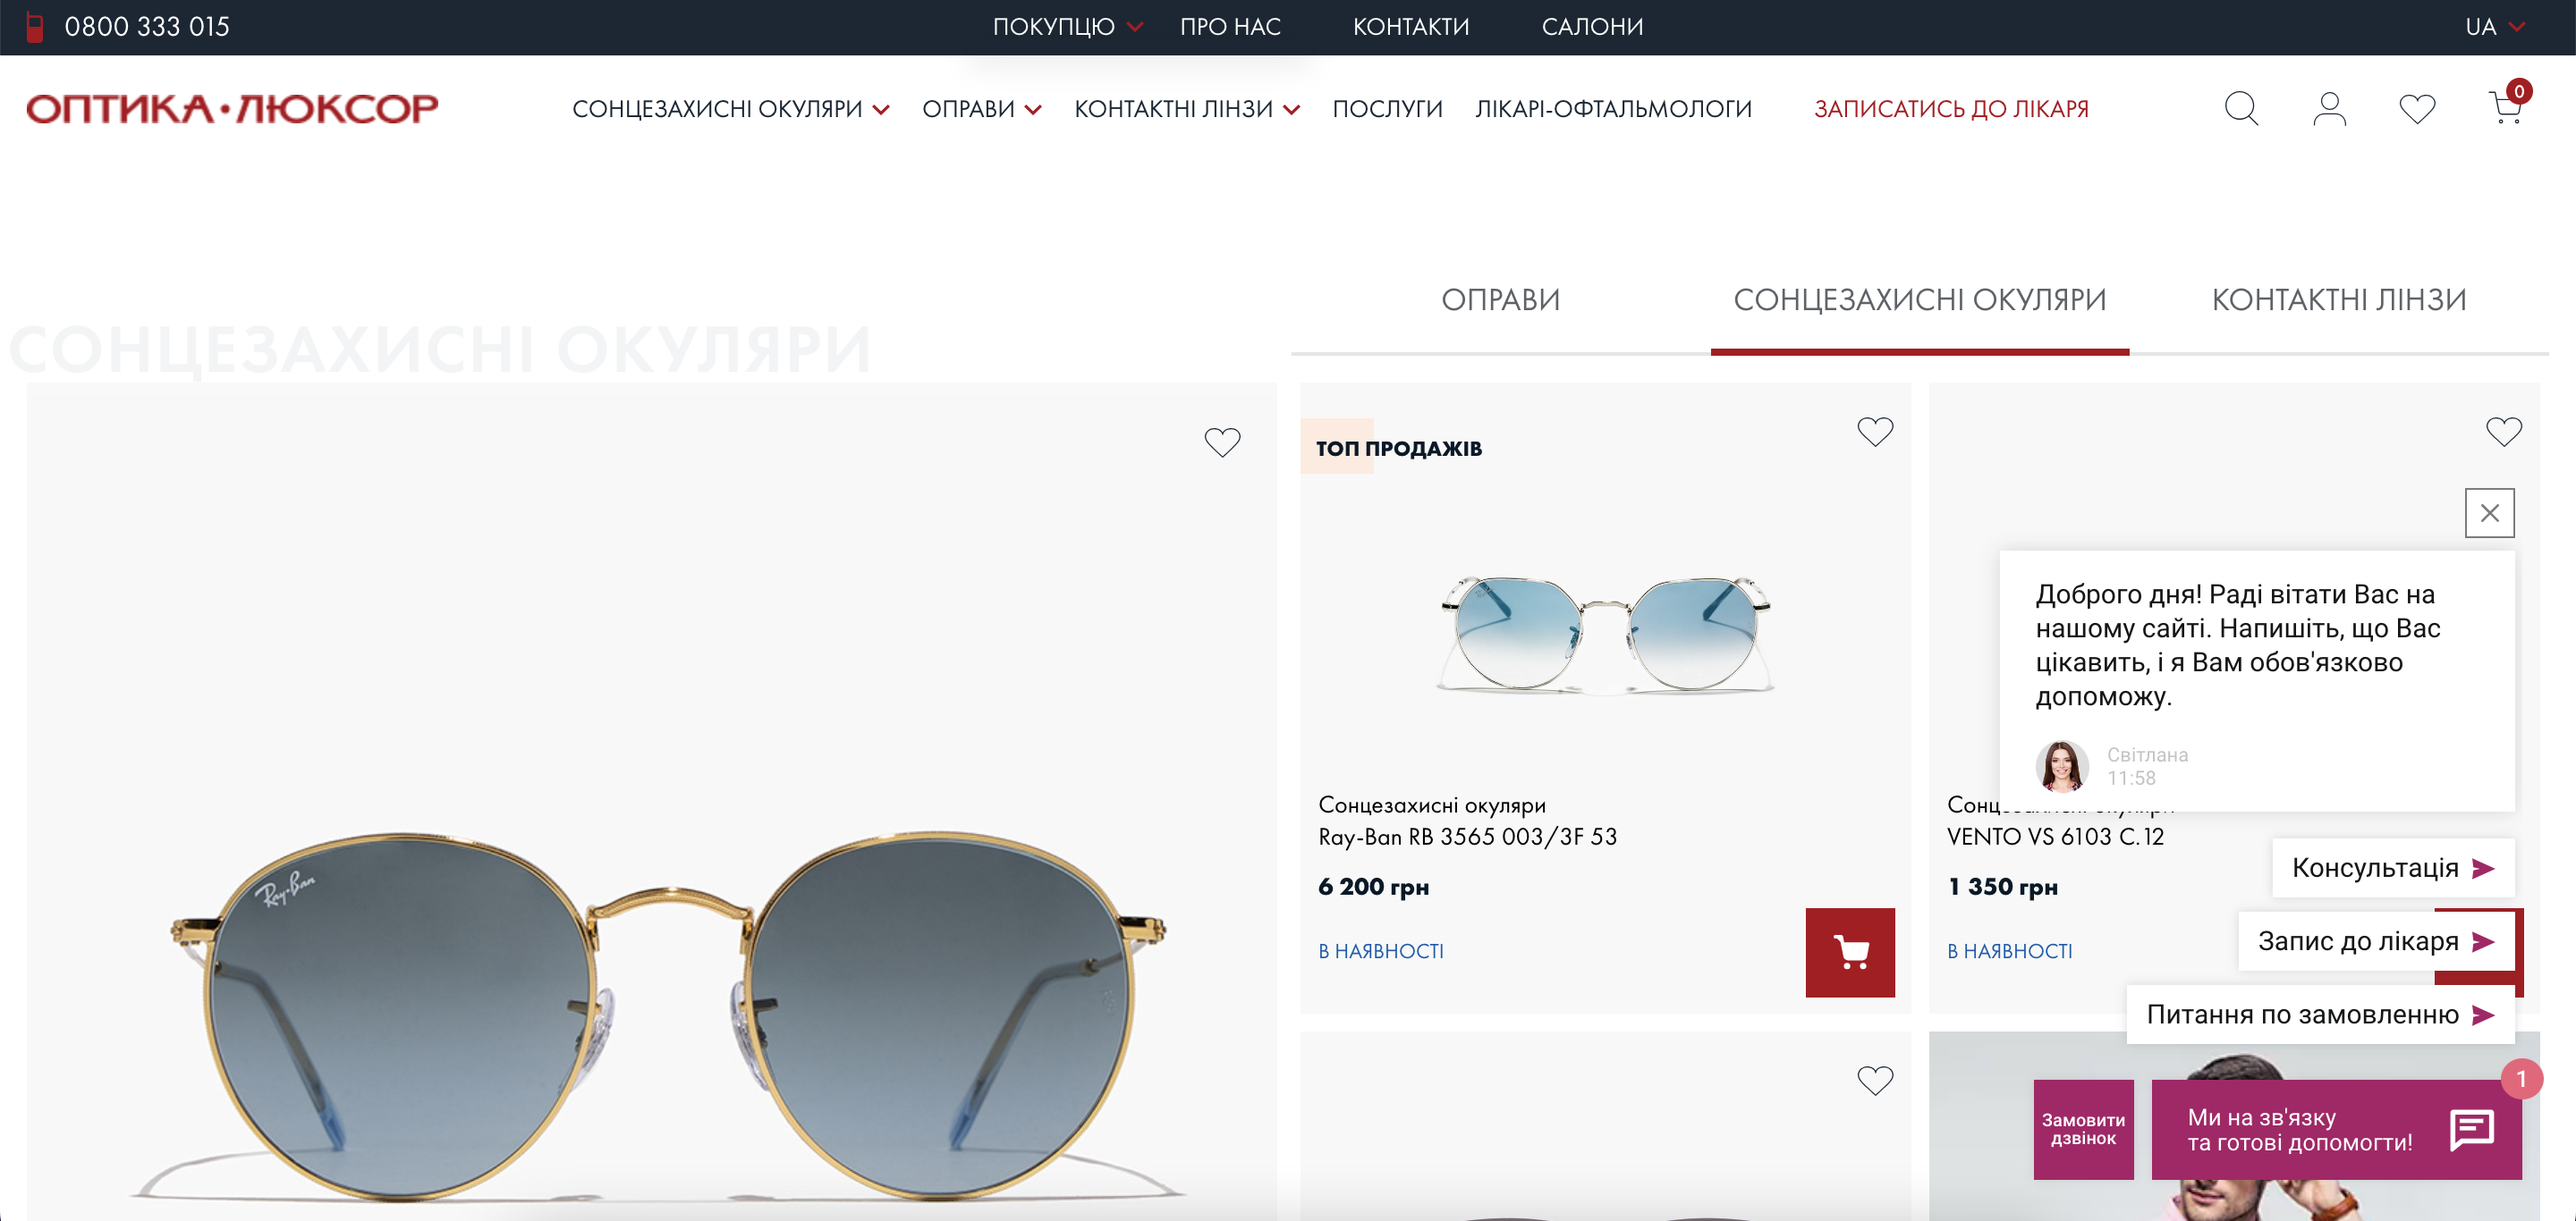
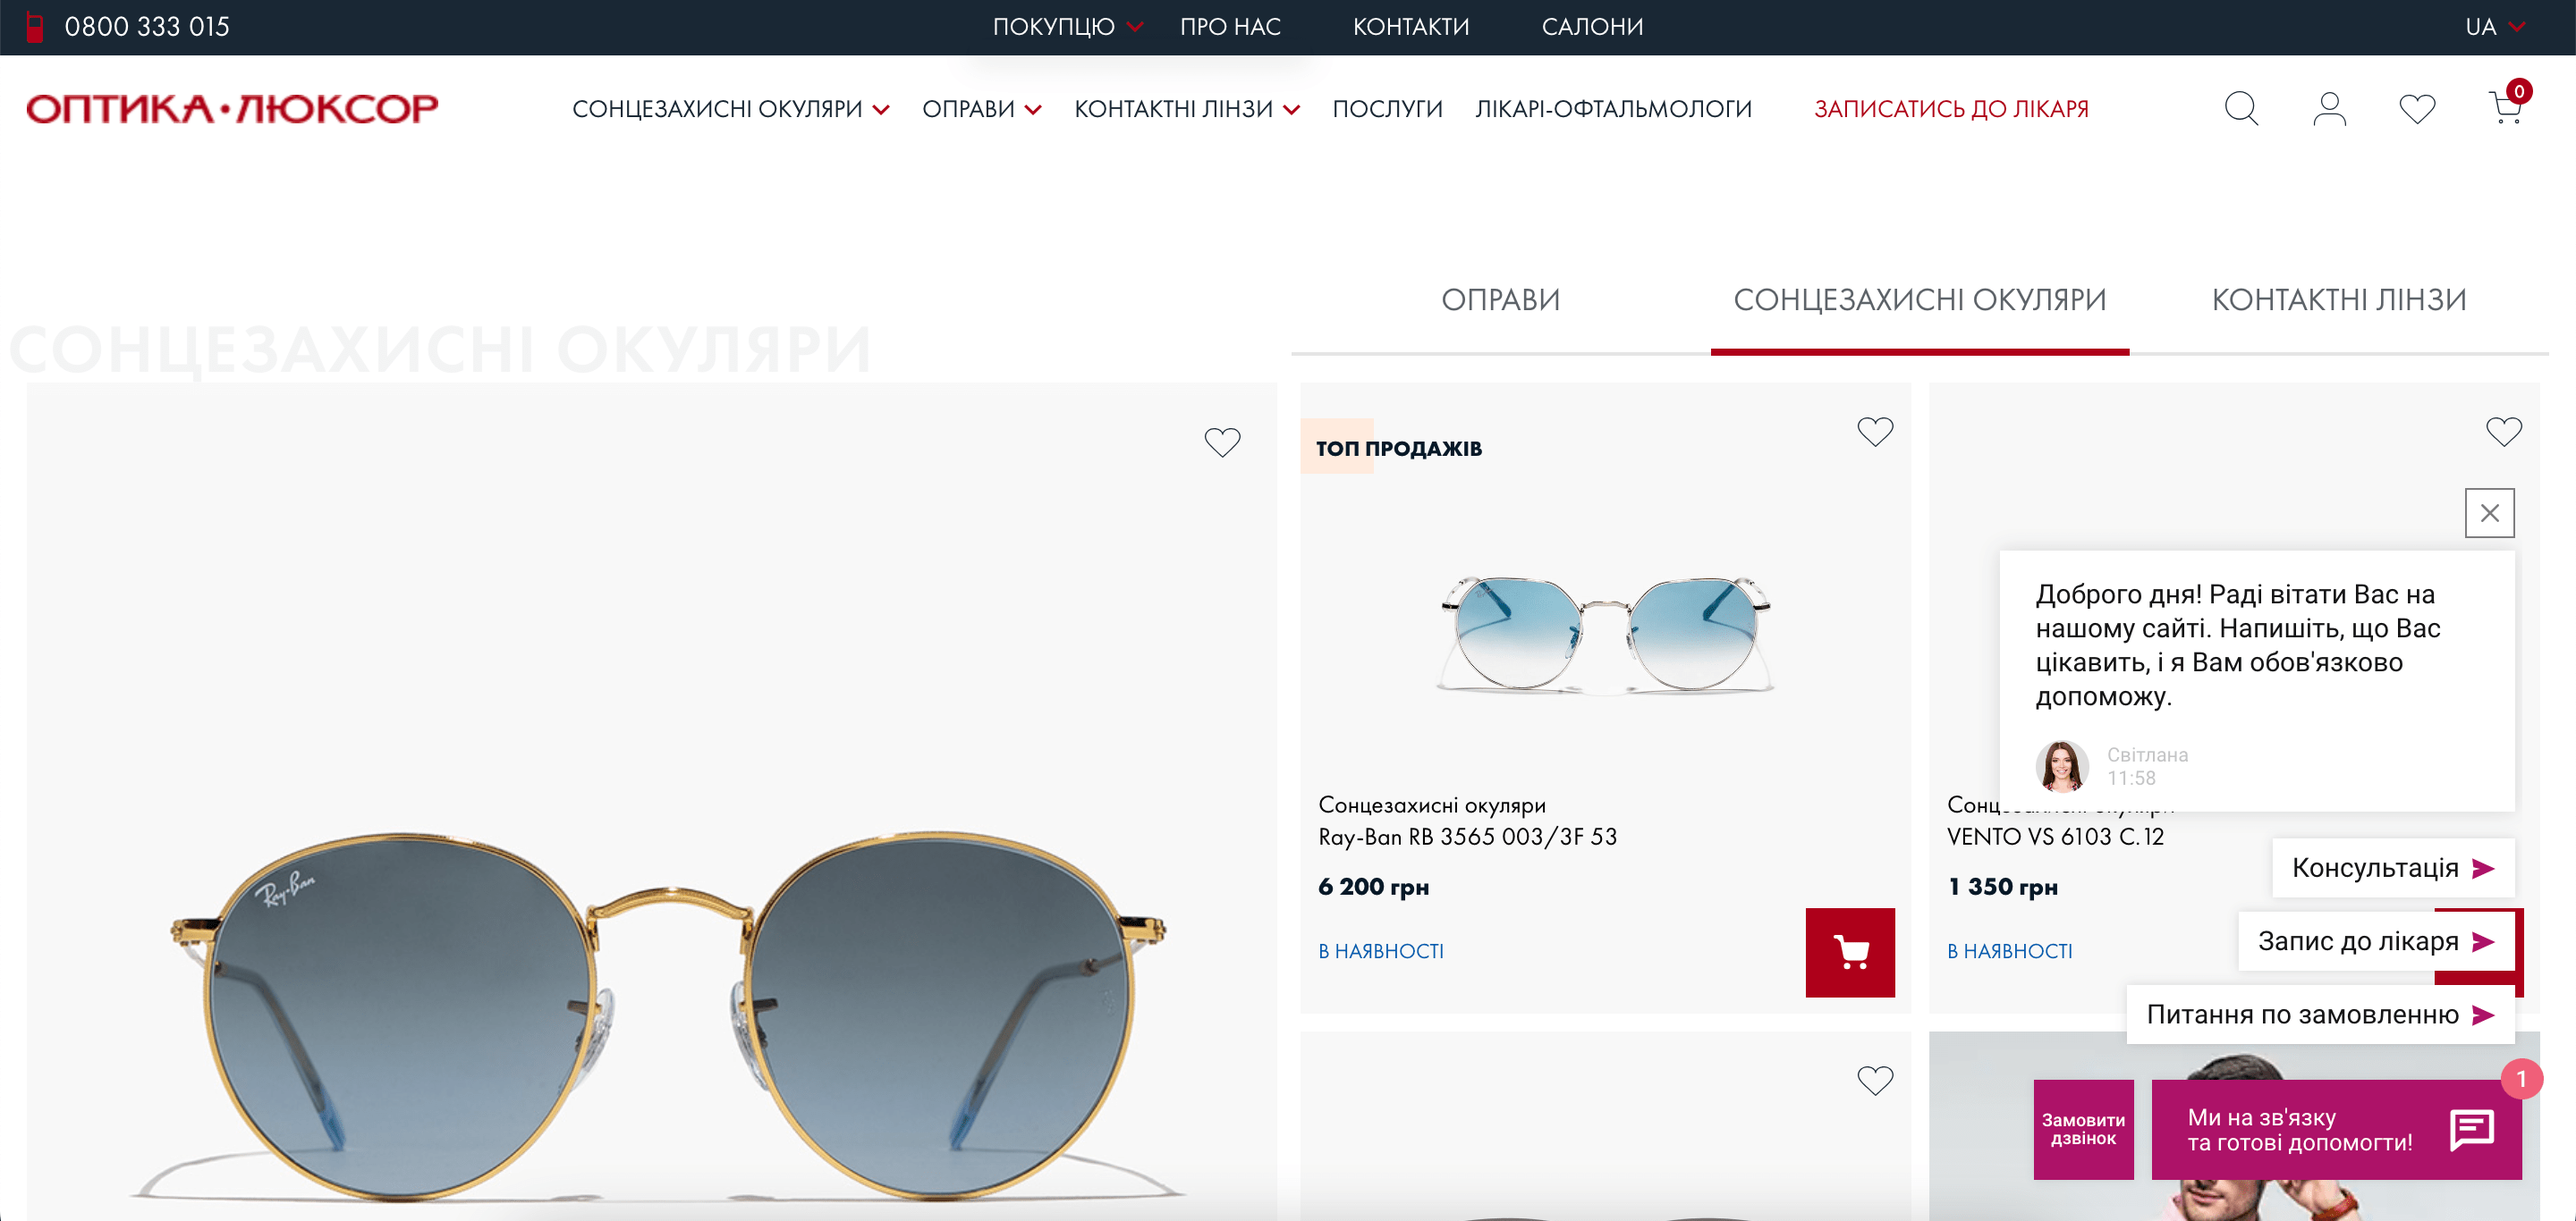
update: compressed images + transition

diff --git a/nuxt.config.ts b/nuxt.config.ts
@@ -1,9 +1,9 @@
 // https://nuxt.com/docs/api/configuration/nuxt-config
 export default defineNuxtConfig({
-  app: {
-    baseURL: '/',
-    buildAssetsDir: 'assets'
-  },
+  // app: {
+  //   baseURL: '/',
+  //   buildAssetsDir: 'assets'
+  // },
   devtools: { enabled: true },
   typescript: {
     typeCheck: true,
@@ -18,10 +18,5 @@ export default defineNuxtConfig({
   },
   imports: {
     dirs: ['types/*.ts'],
-  },
-  runtimeConfig: {
-    public: {
-      apiBaseUrl: process.env.API_BASE_URL,
-    },
   },
 });

diff --git a/components/sideBarVue.vue b/components/sideBarVue.vue
@@ -2,7 +2,7 @@
   <aside
     ref="sideBar"
     :class="isOpened ? 'overflow-y-auto' : 'overflow-y-hidden'"
-    class="fixed z-20 pb-6 top-0 left-[-270px] sm:left-0 shrink-0 w-[320px] h-full bg-gradient-to-b from-[#092974] to-[#1c23c3]"
+    class="fixed z-20 pb-6 top-0 left-[-270px] sm:left-0 shrink-0 w-[320px] h-full bg-gradient-to-b from-[#092974] to-[#1c23c3] transition-all"
     @mouseover="enableScroll"
     @mouseleave="disableScroll"
   >
